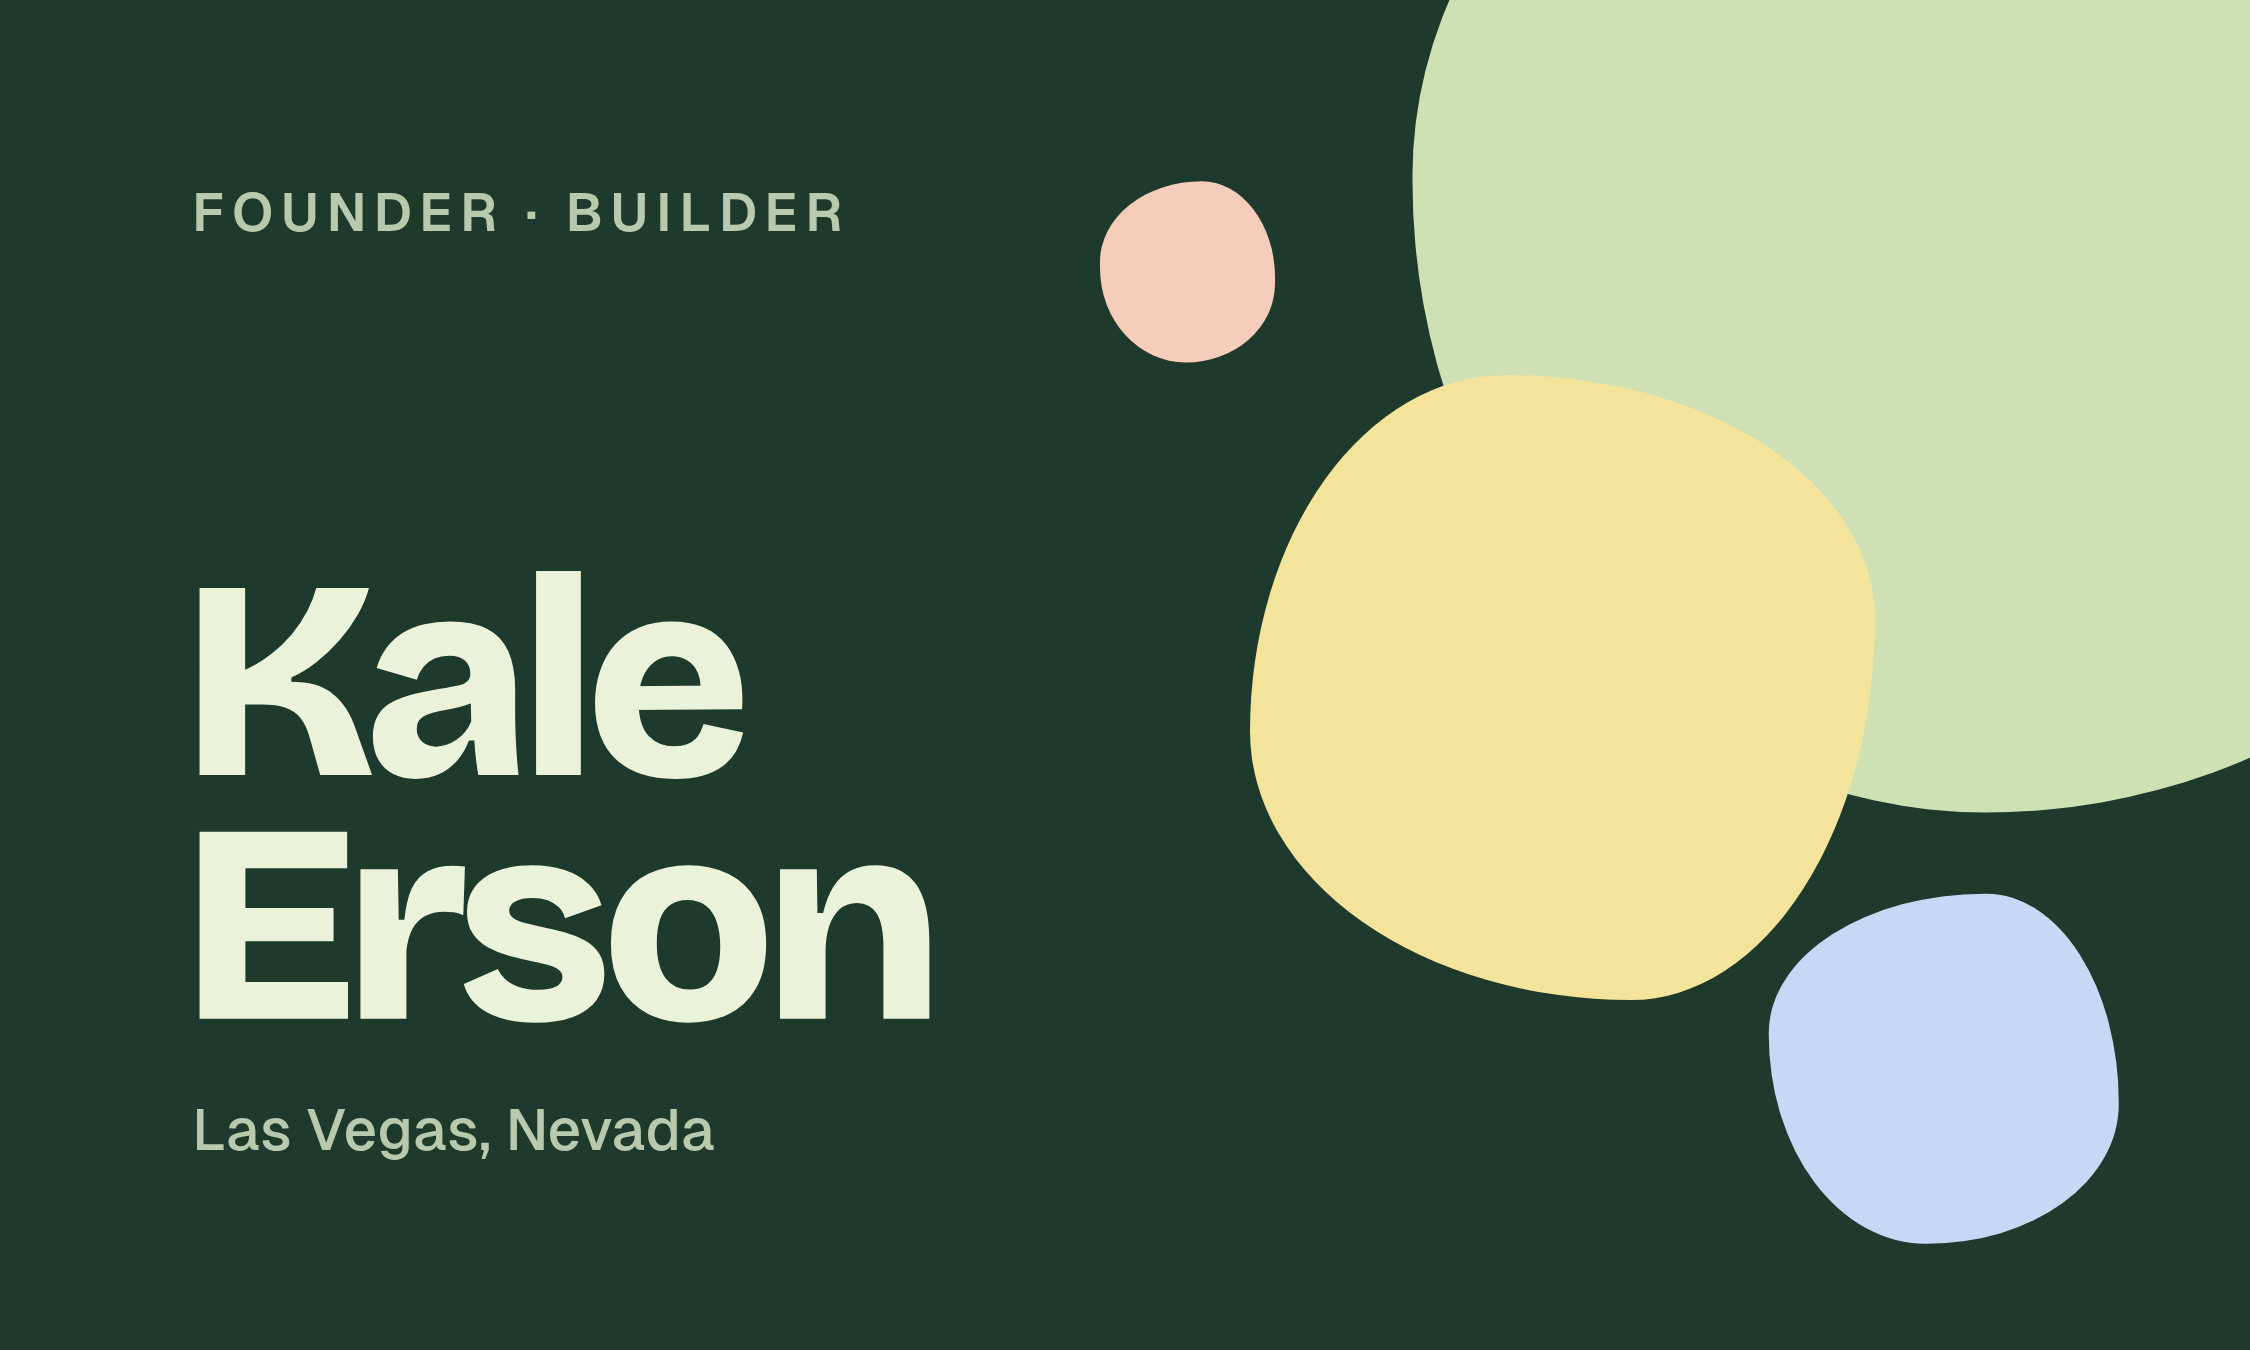
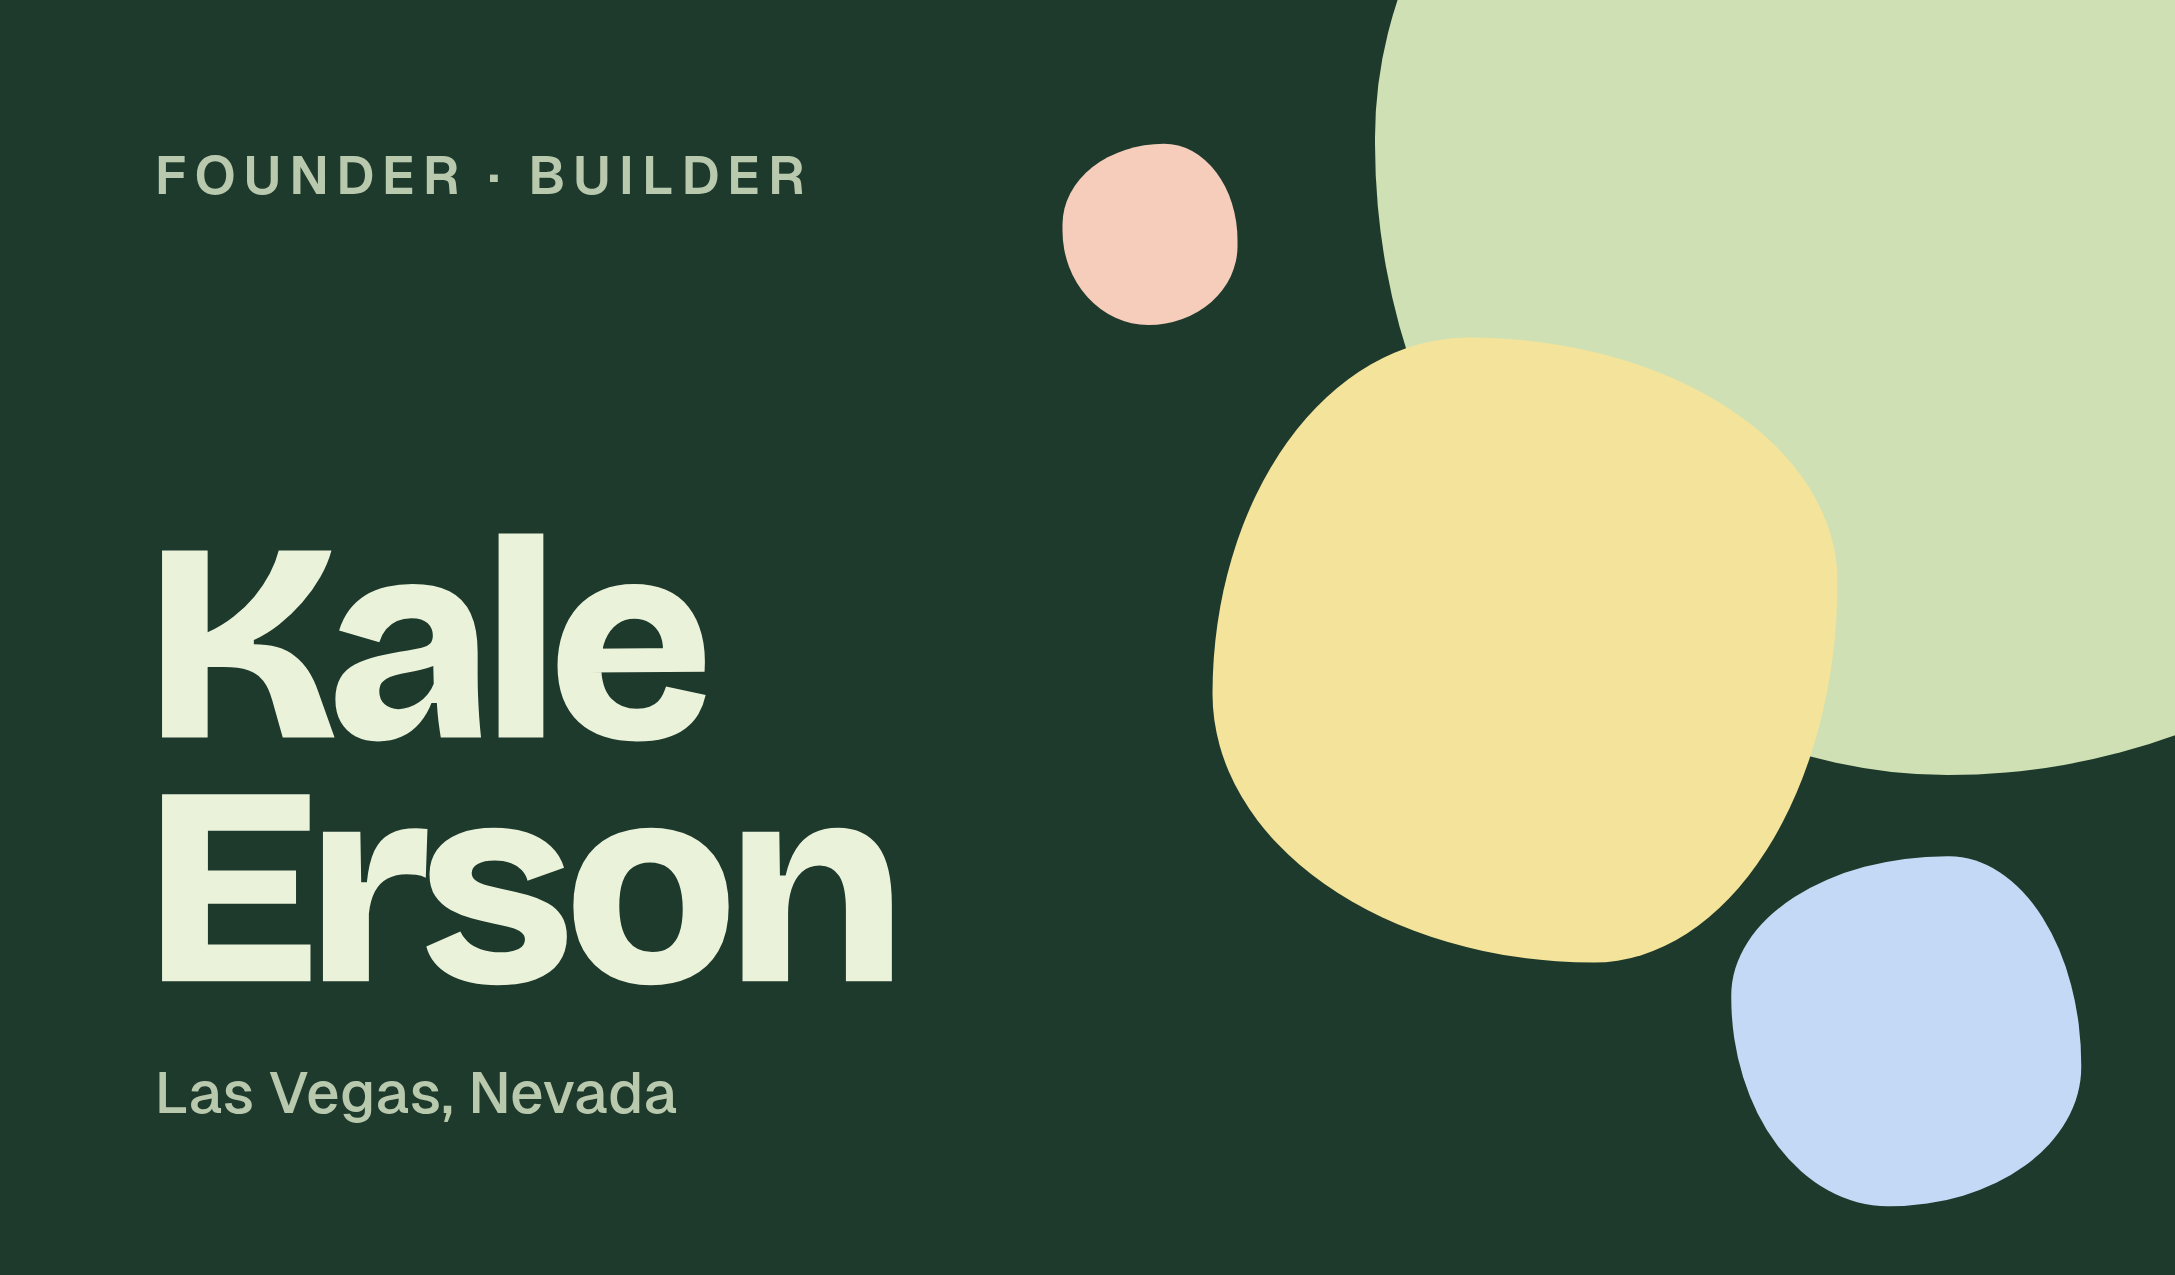
Resize business card files to 3.625 x 2.125 in
Claude-Session: https://claude.ai/code/session_01NyKGtDEnajGU1eFKV4tGGr

diff --git a/design/business-card/build.js b/design/business-card/build.js
@@ -11,9 +11,9 @@ const qr=await QR.toString(URL,{type:'svg',errorCorrectionLevel:'Q',margin:0,col
 // 3.5x2in trim + 0.125in bleed each side = 3.75x2.25in ; 1in = 96px
 const base=`<style>${fonts}
 *{margin:0;padding:0;box-sizing:border-box}
-@page{size:3.75in 2.25in;margin:0}
-html,body{width:3.75in;height:2.25in}
-.card{position:relative;width:3.75in;height:2.25in;overflow:hidden}
+@page{size:3.625in 2.125in;margin:0}
+html,body{width:3.625in;height:2.125in;overflow:hidden}
+.card{position:absolute;left:-.0625in;top:-.0625in;width:3.75in;height:2.25in;overflow:hidden}
 .blob{position:absolute;border-radius:58% 42% 51% 49% / 46% 55% 45% 54%}
 .trim{position:absolute;inset:.125in;outline:.5px dashed #f0f;pointer-events:none}
 .safe{position:absolute;inset:.25in;outline:.5px dashed #0bf;pointer-events:none}
@@ -41,12 +41,13 @@ const back=`${base}<div class="card" style="background:#EEF0EA">
 const b=await chromium.launch({executablePath:'/opt/pw-browsers/chromium'});
 for(const [name,html] of [['front',front],['back',back]]){
   for(const guides of [false,true]){
-    const page=await b.newPage({viewport:{width:360,height:216},deviceScaleFactor:600/96});
+    const page=await b.newPage({viewport:{width:348,height:204},deviceScaleFactor:600/96});
     await page.setContent(html.replace('GUIDES',guides?'<div class="trim"></div><div class="safe"></div>':''));await page.evaluate(()=>document.fonts.ready);
-    if(!guides){await page.pdf({path:`kale-card-${name}.pdf`,width:'3.75in',height:'2.25in',printBackground:true});await page.screenshot({path:`kale-card-${name}.png`})}
+    if(!guides){await page.pdf({path:`kale-card-${name}.pdf`,width:'3.625in',height:'2.125in',printBackground:true});await page.screenshot({path:`kale-card-${name}.png`})}
     else await page.screenshot({path:`preview-${name}.png`});
     await page.close()}}
 // combined 2-page PDF for printers
-const page=await b.newPage();await page.setContent(front.replace('GUIDES','')+'<div style="break-before:page"></div>'+back.replace('GUIDES','').replace(base,''));await page.evaluate(()=>document.fonts.ready);
-await page.pdf({path:'kale-business-card.pdf',width:'3.75in',height:'2.25in',printBackground:true});
+const page=await b.newPage();const pg=h=>'<div style="position:relative;width:3.625in;height:2.125in;overflow:hidden;break-after:page">'+h.replace(base,'').replace('GUIDES','')+'</div>';
+await page.setContent(base.replace('html,body{width:3.625in;height:2.125in;overflow:hidden}','')+pg(front)+pg(back));await page.evaluate(()=>document.fonts.ready);
+await page.pdf({path:'kale-business-card.pdf',width:'3.625in',height:'2.125in',printBackground:true});
 await b.close();console.log('done')})();

diff --git a/design/business-card/README.md b/design/business-card/README.md
@@ -1,6 +1,6 @@
 # Business card
 
-Standard US size: 3.5 × 2 in, with 0.125 in bleed on every side (files are 3.75 × 2.25 in).
+Standard US size: 3.5 × 2 in, with 1/16 in bleed on every side (files are 3.625 × 2.125 in; PNGs are 2175 × 1275 px at 600 dpi).
 
 | File | Use |
 |---|---|
